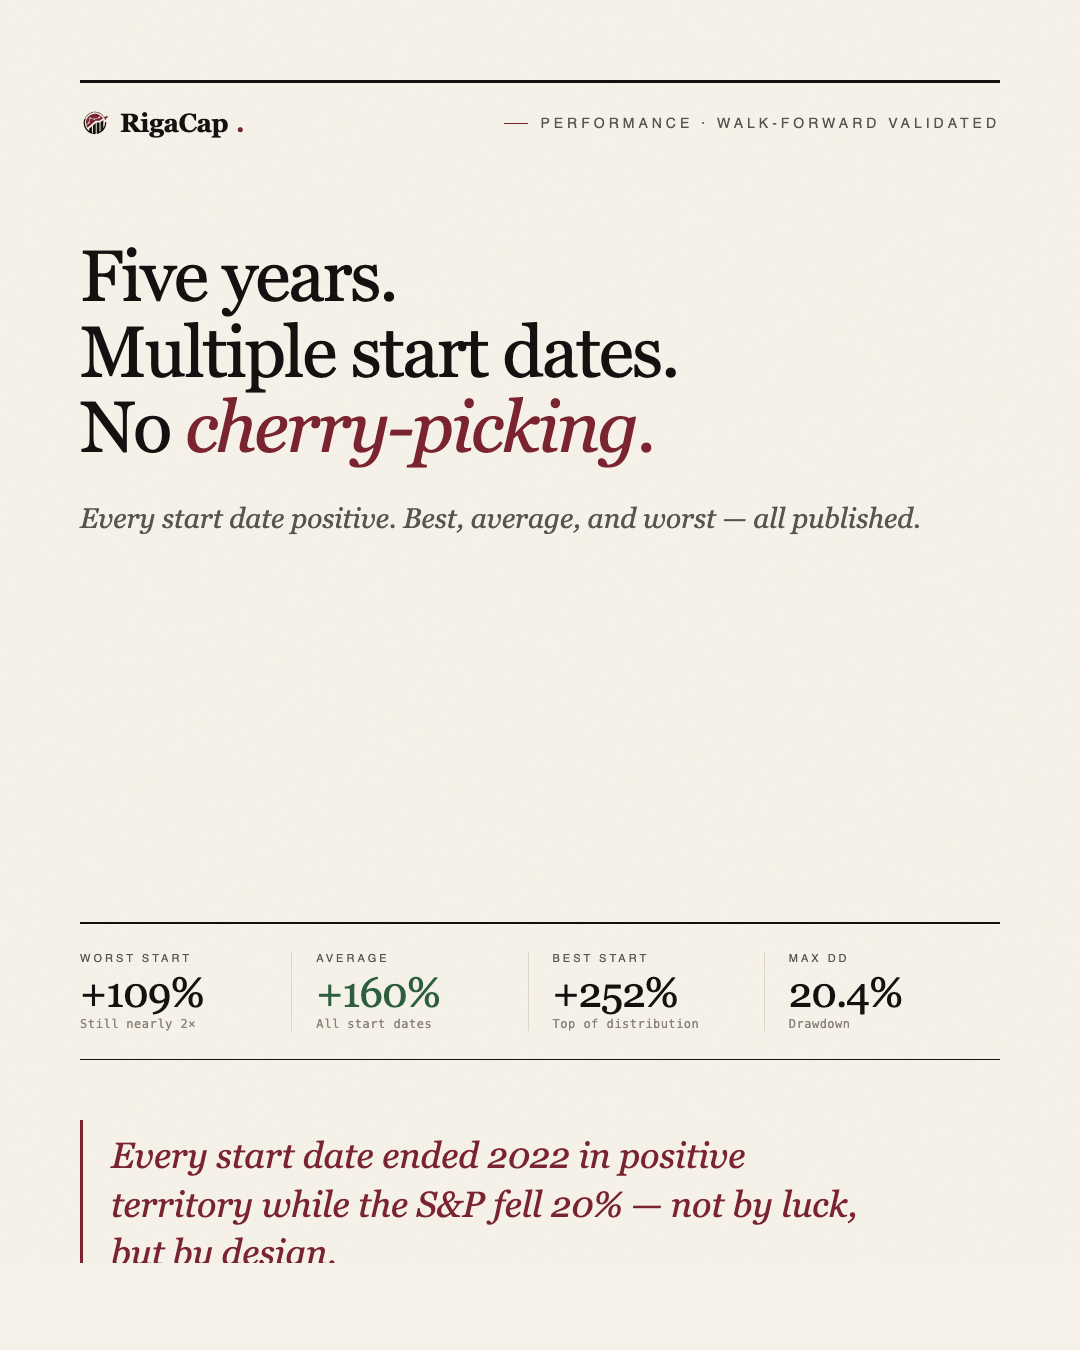
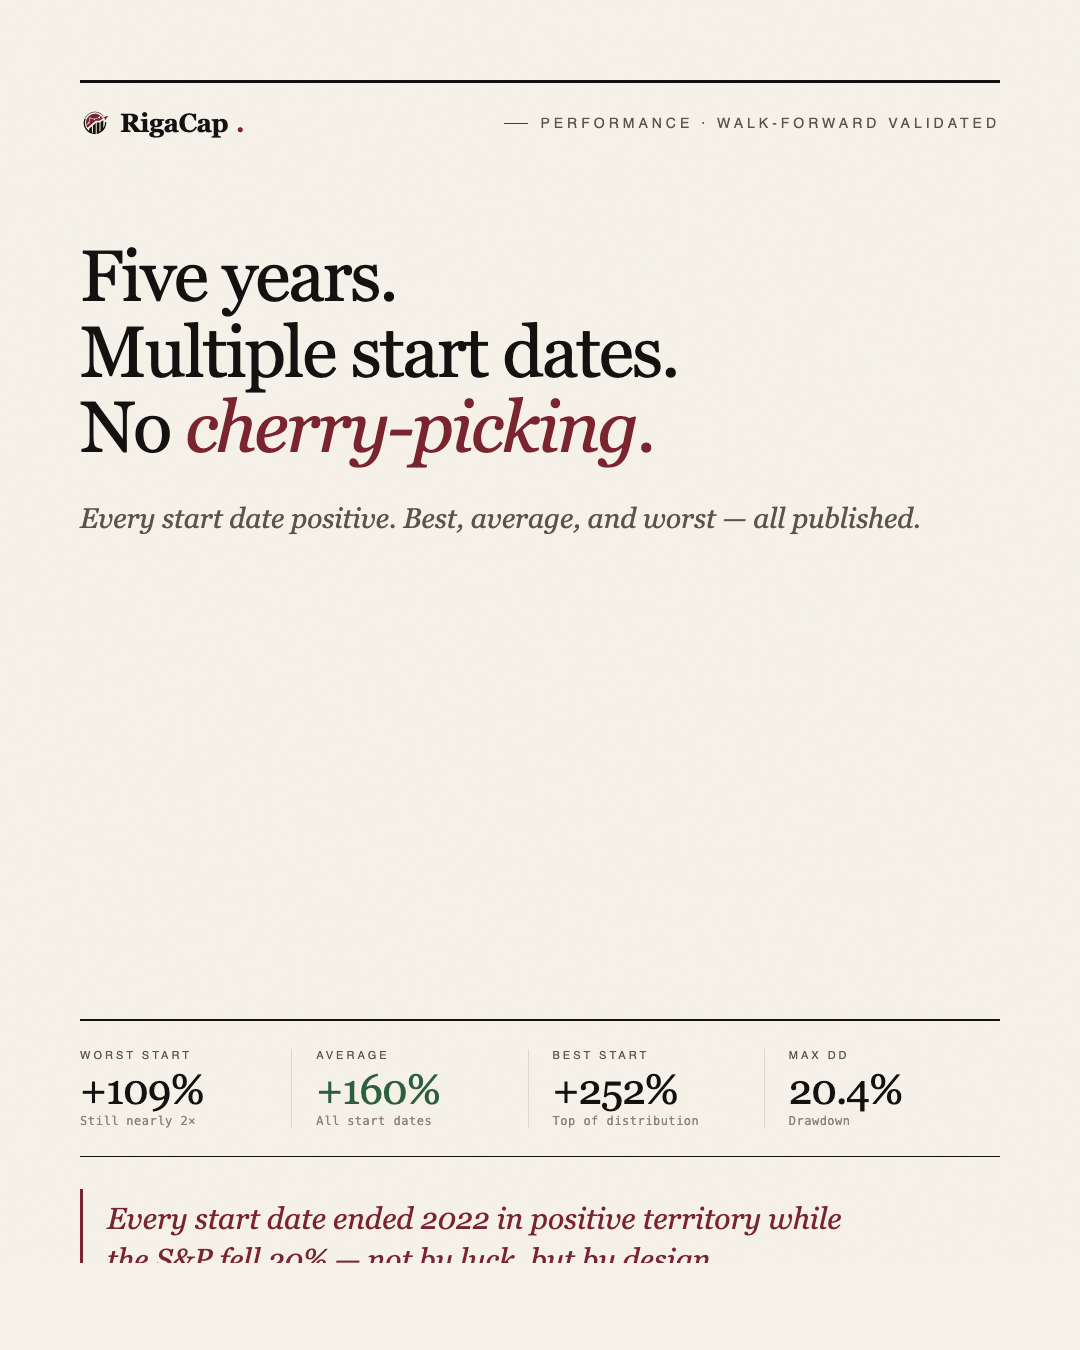
launch card 2: shrink pull quote to fit within card
The 36px Fraunces italic pull quote at the bottom of card 2 was
overflowing the 1350px card edge — "but by design" got clipped
at the descenders.

Pull quote tightened: 36px → 30px, margin-top 60px → 32px,
padding 12/28 → 10/24. Content now ends at y=1262 with ~88px
of clean paper below, no clipping.

Changed region(s): [[0.0611, 0.7156, 0.7944, 0.9333], [0.7333, 0.7156, 0.8556, 0.84]]

diff --git a/design/brand/social-launch-cards-v2.html b/design/brand/social-launch-cards-v2.html
@@ -48,7 +48,7 @@
   .pillar-num { font-family: 'IBM Plex Mono', monospace; font-size: 12px; color: #7A2430; letter-spacing: 2px; margin-bottom: 8px; }
   .pillar-title { font-family: 'Fraunces', Georgia, serif; font-size: 30px; font-weight: 500; margin-bottom: 10px; letter-spacing: -0.5px; }
   .pillar-desc { font-size: 18px; color: #5A544E; line-height: 1.55; max-width: 800px; }
-  .pullquote { font-family: 'Fraunces', Georgia, serif; font-style: italic; font-size: 36px; line-height: 1.35; color: #7A2430; border-left: 3px solid #7A2430; padding: 12px 0 12px 28px; margin-top: 60px; max-width: 800px; }
+  .pullquote { font-family: 'Fraunces', Georgia, serif; font-style: italic; font-size: 30px; line-height: 1.35; color: #7A2430; border-left: 3px solid #7A2430; padding: 10px 0 10px 24px; margin-top: 32px; max-width: 800px; }
   .regime-list { margin-top: 40px; }
   .regime-row { display: flex; align-items: center; gap: 16px; padding: 14px 0; border-bottom: 1px solid #DDD5C7; }
   .regime-dot { width: 14px; height: 14px; flex-shrink: 0; }
